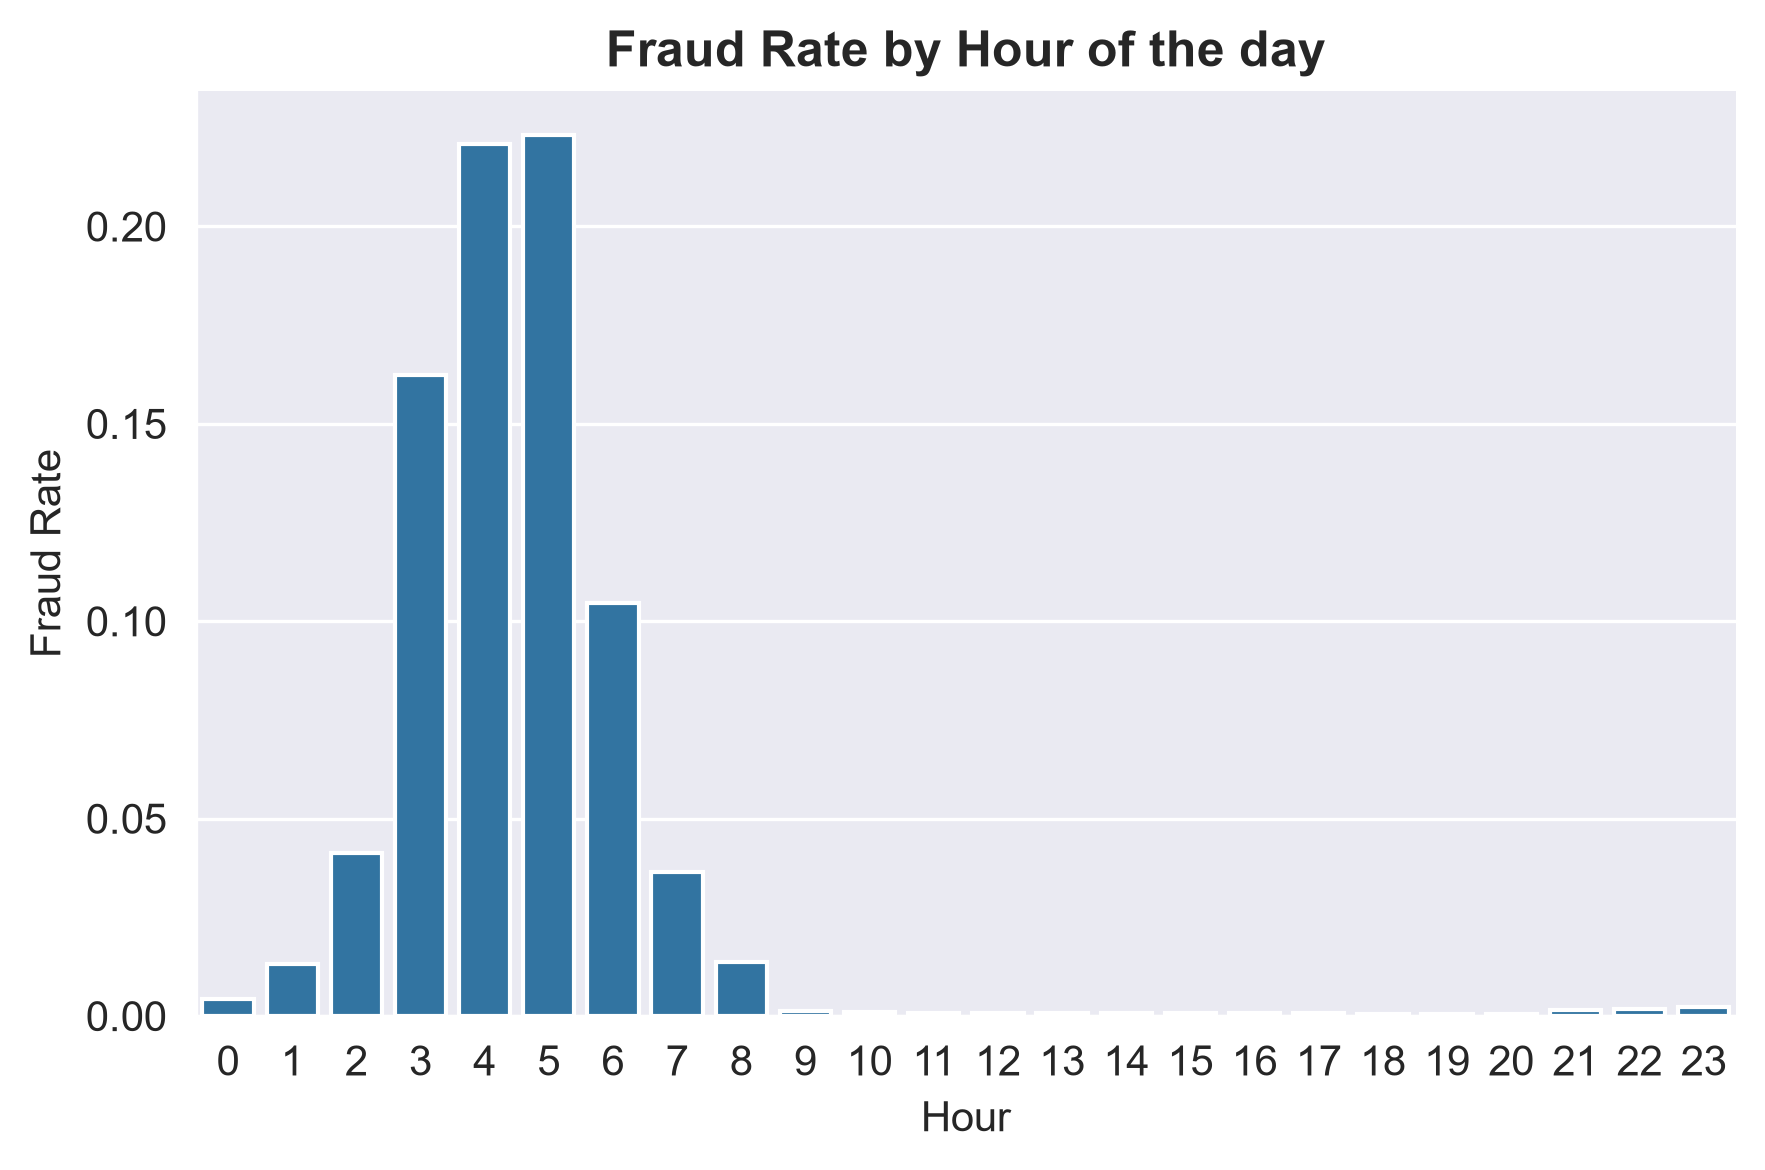
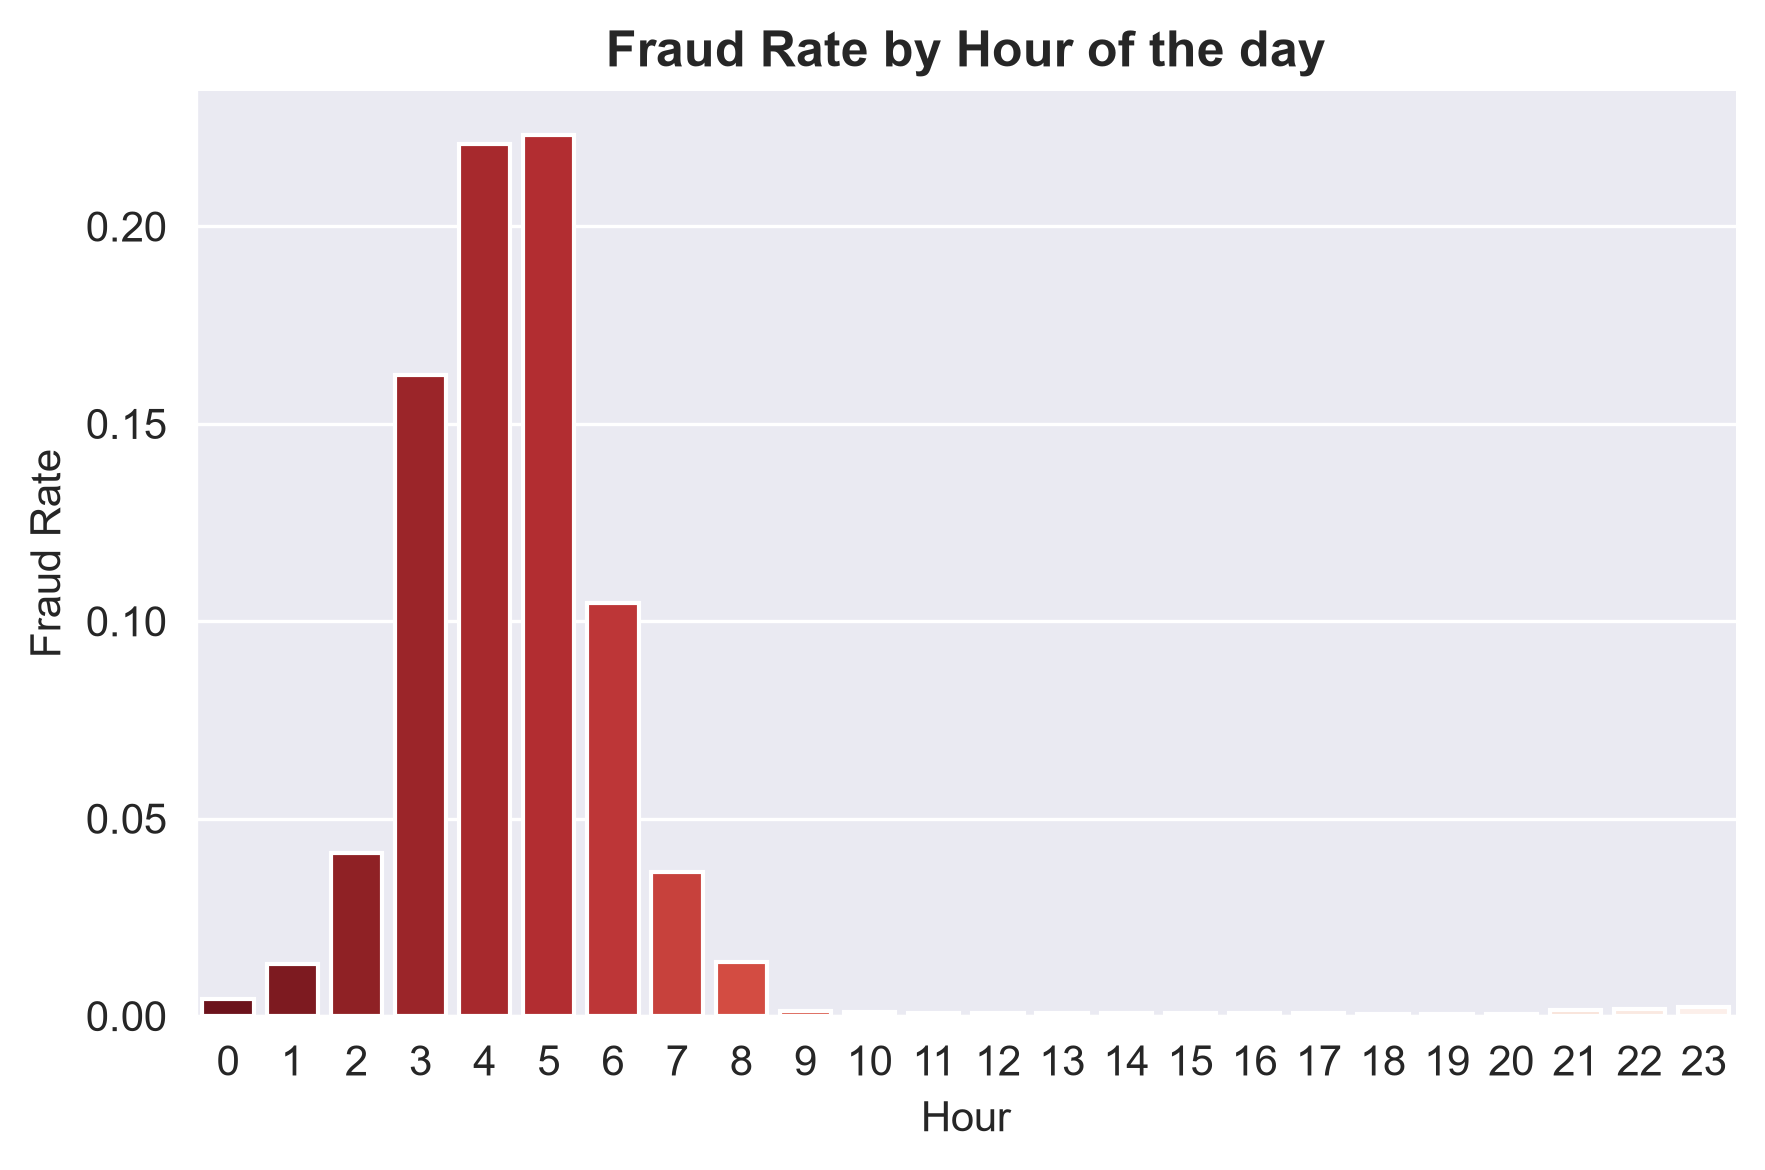
FastAPI integrated successfully

Changed region(s): [[0.1246, 0.1231, 0.4363, 0.8923]]

diff --git a/app.py b/app.py
@@ -1,10 +1,11 @@
-# Import libraries 
-import streamlit as st 
-import pandas as pd 
-import joblib 
+# Import libraries
+import streamlit as st
+import requests
+import joblib
 
-# Import model 
-model = joblib.load("artifacts/model.pkl")
+API_URL = "http://127.0.0.1:8000/predict"
+
+model = joblib
 
 # Page configuration
 st.set_page_config(
@@ -23,8 +24,8 @@ st.markdown(
 st.divider()
 
 # Define user inputs    
-transaction_type = st.selectbox("Transaction Type",["PAYMENT","TRANSFER","CASH_OUT","CASH_IN","DEBIT"])
 hour = st.slider("Transaction Hour",min_value=0,max_value=23,value=12)
+transaction_type = st.selectbox("Transaction Type",["PAYMENT","TRANSFER","CASH_OUT","CASH_IN","DEBIT"])
 amount = st.number_input("Transaction Amount", min_value=0.0, value=1000.0)
 oldbalanceOrg = st.number_input("Old Sender Balance",min_value=0.0,value=0.0)
 newbalanceOrig = st.number_input("New Sender Balance",min_value=0.0,value=0.0)
@@ -39,36 +40,46 @@ if st.button("Predict Fraud"):
     balanceDiffDest = newbalanceDest - oldbalanceDest
 
     # Final input dataframe 
-    input_data = pd.DataFrame([{
+    input_data = {
+        "hour":hour,
         "type":transaction_type,
         "amount":amount,
-        "balanceDiffOrig": balanceDiffOrig,
-        "balanceDiffDest": balanceDiffDest,
-        "hour": hour
-    }])
-
-    # Prediction
-    prediction = model.predict(input_data)[0]
-    probability = model.predict_proba(input_data)[0][1]
+        "oldbalanceOrg": oldbalanceOrg,
+        "newbalanceOrig": newbalanceOrig,
+        "oldbalanceDest":oldbalanceDest,
+        "newbalanceDest":newbalanceDest
+    }
 
     st.divider() 
     st.subheader("Prediction Result")
 
-    if prediction == 1:
-        st.error(
-            f"⚠️ Fraudulent Transaction Detected\n\n"
-            f"Fraud Probability: {probability:.2%}"
-        )
-    else:
-        st.success(
-            f"✅ Legitimate Transaction\n\n"
-            f"Fraud Probability: {probability:.2%}"
-        )
+    try:
+        response = requests.post(API_URL,json=input_data)
+        if response.status_code==200:
+            result = response.json() 
+            if result['prediction'] == 1:
+                st.error(
+                    f"⚠️ Fraudulent Transaction Detected\n\n"
+                    f"Fraud Probability: {result['fraud_probability']:.2%}"
+                    )
+            else:
+                st.success(
+                    f"✅ Legitimate Transaction\n\n"
+                    f"Fraud Probability: {result['fraud_probability']:.2%}"
+                )
+            
+            # Risk level 
+            if result['fraud_probability'] >= 0.8:
+                st.error("🔴 High Risk")
+            elif result['fraud_probability'] >= 0.4:
+                st.warning("🟠 Medium Risk")
+            else:
+                st.success("🟢 Low Risk")
+        else: 
+            st.error(f"API Error: {response.status_code} - {response.text}")
+    except requests.exceptions.ConnectionError: 
+        st.error("Could not connect on the FastAPI server. Make sure it is connected on port 8000")
 
-    # Risk level 
-    if probability >= 0.8:
-        st.error("🔴 High Risk")
-    elif probability >= 0.4:
-        st.warning("🟠 Medium Risk")
-    else:
-        st.success("🟢 Low Risk")
+
+
+   

diff --git a/api.py b/api.py
@@ -1,0 +1,61 @@
+# Import libraries 
+from fastapi import FastAPI
+from pydantic import BaseModel, Field, computed_field
+from typing import Literal, Annotated 
+import joblib
+import pandas as pd
+
+# Import model 
+model = joblib.load("artifacts/model.pkl")
+
+# Define fastapi object 
+app = FastAPI()
+
+# Create pydantic model to validate input data 
+class UserInput(BaseModel): 
+    
+    hour: Annotated[int,Field(...,ge=0,le=23,description="Transaction hour (0-23)")]
+
+    type:Annotated[Literal['PAYMENT', 'TRANSFER', 'CASH_OUT', 'DEBIT', 'CASH_IN'],Field(...,description="Type of the transaction")]
+
+    amount:Annotated[float,Field(...,ge=0,description="Type of the transaction")]
+
+    oldbalanceOrg:Annotated[float,Field(...,ge=0,description="Old balance of the sender")]
+
+    newbalanceOrig:Annotated[float,Field(...,ge=0,description="New balance of the sender")]
+    
+    oldbalanceDest:Annotated[float,Field(...,ge=0,description="Old balance of the receiver")]
+
+    newbalanceDest:Annotated[float,Field(...,ge=0,description="New balance of the receiver")]
+
+    # Create new features - Feature Engineering
+    @computed_field
+    @property 
+    def balanceDiffOrig(self)->float:
+        return self.oldbalanceOrg - self.newbalanceOrig 
+    
+    @computed_field 
+    @property 
+    def balanceDiffDest(self)->float: 
+        return self.newbalanceDest - self.oldbalanceDest
+
+# Create predic endpoint 
[email redacted]('/predict')
+def predict_fraud(data: UserInput):
+    
+    input_df = pd.DataFrame([{
+        'hour': data.hour,
+        'type': data.type,
+        'amount':data.amount,
+        'balanceDiffOrig': data.balanceDiffOrig,
+        'balanceDiffDest': data.balanceDiffDest
+    }])
+
+    prediction = int(model.predict(input_df)[0])
+    probability = float(model.predict_proba(input_df)[0][1])
+
+    return {
+        'prediction':prediction,
+        'fraud_probability':round(probability,4)
+        }
+